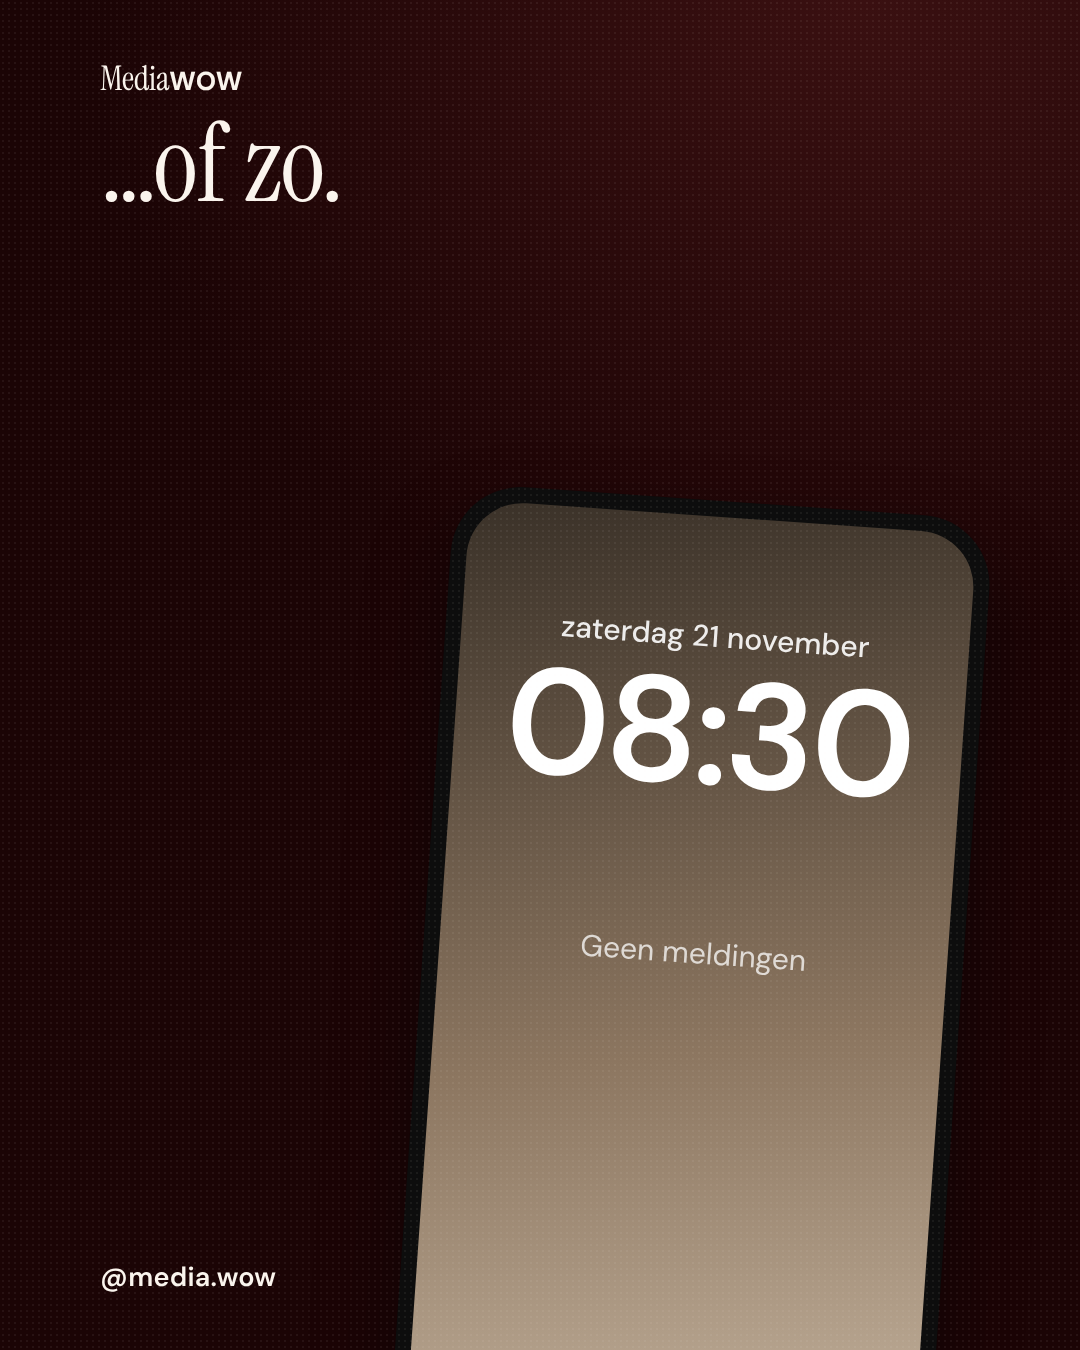
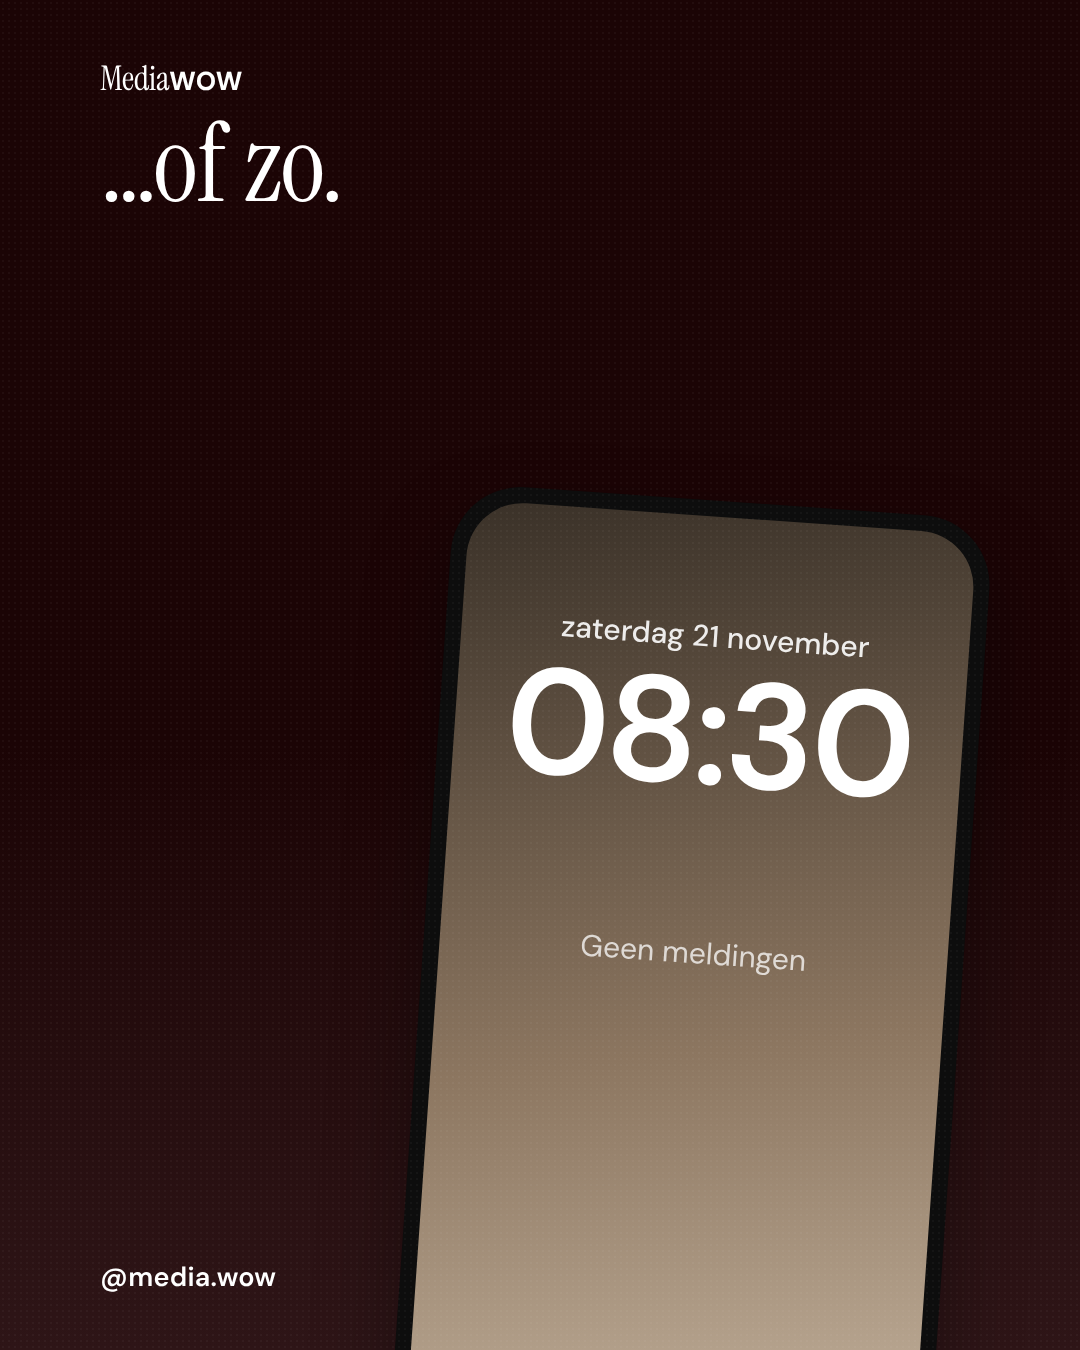
Restyle slides to MediaWow house style: bordeaux, white and cream
Claude-Session: https://claude.ai/code/session_01RBQ5c9Pv2G8CobvSf5vDwJ

Changed region(s): [[0.5806, 0.0, 1.0, 0.1556]]

diff --git a/instagram/build.js b/instagram/build.js
@@ -121,10 +121,45 @@ em{font-style:italic}
 .foot .dots{display:flex;gap:10px}
 .foot .dots i{width:12px;height:12px;border-radius:50%;background:currentColor;opacity:.25}
 .foot .dots i.on{opacity:1;width:34px;border-radius:10px}
+/* ===== MediaWow huisstijl: bordeaux · wit · creme ===== */
+:root{--ink:#1B0405;--bordeaux:#3A1011;--wine:#561C1E;--mauve:#7A5A5A;--cream:#FAF4ED;--sand:#F4EFE8;--white:#FFFFFF}
+.light{background:var(--cream);color:var(--bordeaux)} .sand{background:var(--sand);color:var(--bordeaux)}
+.white-bg{background:var(--white);color:var(--bordeaux);box-shadow:inset 0 0 0 28px var(--white),inset 0 0 0 30px rgba(58,16,17,.25)}
+.dark{background:linear-gradient(180deg,#1B0405 0%,#1B0405 55%,#2E1517 100%);color:#fff}
+.grain:after{opacity:.035}
+.lime{color:#fff} .red{color:#E9B8B0}
+.light h1 em,.sand h1 em,.white-bg h1 em,.light h3 em,.sand h3 em,.white-bg h3 em{color:var(--wine)}
+.lead{color:inherit;opacity:.82;font-weight:400}
+.kicker{font-weight:400;letter-spacing:.38em;opacity:.65}
+.hand{font-family:'Instrument Serif',serif;font-style:italic;font-weight:400}
+.hand.big{font-size:54px;line-height:1.15}
+.light .hand,.sand .hand,.white-bg .hand{color:var(--mauve)}
+.dark .hand{color:rgba(255,255,255,.72)}
+.hl{background:none;padding:0;margin:0;font-style:italic;color:var(--wine);text-decoration:underline;text-decoration-thickness:3px;text-underline-offset:10px}
+p .hl,.step .hl,.lead .hl{font-style:normal;font-weight:600}
+.dark .hl{background:#fff;color:var(--ink);padding:2px 14px;border-radius:0;text-decoration:none;font-style:normal}
+.sticker{background:#fff;color:var(--ink);border-radius:0;width:auto;height:auto;padding:26px 30px;font-weight:500;font-size:24px;letter-spacing:.32em;box-shadow:none;transform:rotate(0)}
+.pill{background:var(--bordeaux);color:#fff;border-radius:0;font-weight:500;font-size:24px;letter-spacing:.38em;transform:none}
+.step{background:#fff;border-radius:4px}
+.step b{background:var(--bordeaux);color:#fff}
+.checks div:before{background:var(--bordeaux);color:#fff;font-size:30px}
+.dark .checks div:before{background:#fff;color:var(--ink)}
+.checks div{border-color:rgba(58,16,17,.15)} .dark-checks div{border-color:rgba(255,255,255,.15)}
+.qa div{border-radius:4px} .qa .a{border-left-color:var(--wine)}
+.words span{background:transparent;color:#fff;border:1.5px solid rgba(255,255,255,.6);border-radius:0;font-weight:500;font-size:34px;letter-spacing:.3em;text-transform:uppercase;padding:22px 30px;transform:none!important}
+.ab-tag,.big-a{background:var(--bordeaux);color:#fff}
+.r-total span:last-child{background:var(--bordeaux);color:#fff}
+.comment-box{border-radius:6px}
+.count span{color:var(--mauve)}
+.flag h3{color:inherit}
+.btn-line{display:inline-block;margin-top:60px;align-self:flex-start;padding:30px 46px;font-size:24px;letter-spacing:.38em;text-transform:uppercase;font-weight:500}
+.white-bg .btn-line,.light .btn-line{background:var(--bordeaux);color:#fff}
+.dark .btn-line{background:#fff;color:var(--ink)}
+.mark{font-size:34px}
 `;
 
 function slideHTML(sl, i, n) {
-  const theme = sl.theme === 'lime' ? 'lime-bg' : sl.theme;
+  const theme = sl.theme === 'lime' ? 'white-bg' : sl.theme;
   const dots = n > 1 ? `<span class="dots">${Array.from({ length: n }, (_, k) => `<i class="${k === i ? 'on' : ''}"></i>`).join('')}</span>` : '<span>MediaWow webdesign</span>';
   const swipe = n > 1 && i === 0 ? '<span>Swipe →</span>' : dots;
   return `<!doctype html><html><head><meta charset="utf-8"><link rel="stylesheet" href="${FONTS}"><style>${CSS}</style></head>

diff --git a/instagram/slides.js b/instagram/slides.js
@@ -88,7 +88,7 @@ Ken je iemand wiens website wel een roast kan gebruiken? Tag ze (met liefde 😇
       { theme: 'dark', html: `
         <div class="kicker">Benieuwd?</div>
         <h1 class="lg">Hoeveel appjes zou jouw website kunnen opvangen?</h1>
-        <p class="lead">Reageer <span class="hl dark-hl">ROAST</span> en ik kijk eerlijk mee.</p>` },
+        <p class="lead">Reageer ROAST en ik kijk eerlijk mee.</p><div class="btn-line">Reageer: Roast</div>` },
     ],
     caption: `“Hoi! Wat kost knippen?”
 “Hebben jullie zaterdag nog plek?”
@@ -186,7 +186,7 @@ Welke red flag mist er nog? 👇
         <p class="hand big" style="margin-top:40px">geen schaamte, gebeurt de beste 😅</p>` },
       { theme: 'lime', html: `
         <h1 class="lg">Van A naar B? Daar ben ik voor.</h1>
-        <p class="lead">Reageer <b>PREVIEW</b> en ik stuur je de link voor een gratis preview van je nieuwe website.</p>` },
+        <p class="lead">Reageer PREVIEW en ik stuur je de link voor een gratis preview van je nieuwe website.</p><div class="btn-line">Reageer: Preview</div>` },
     ],
     caption: `Welke krijgt de reservering: A of B? 🤔
 Zeg het in de comments 👇
@@ -233,7 +233,7 @@ Reageer PREVIEW en ik stuur je de link voor een gratis preview van je nieuwe web
         </div>` },
       { theme: 'lime', html: `
         <h1 class="xl">Bonnetje<br><em>bewaren?</em></h1>
-        <p class="lead">Plan een kennismaking via <b>mediawow.nl</b>. Of reageer <b>PREVIEW</b> voor een gratis preview.</p>` },
+        <p class="lead">Plan een kennismaking via mediawow.nl. Of reageer PREVIEW voor een gratis preview.</p><div class="btn-line">Plan een kennismaking</div>` },
     ],
     caption: `Je ‘goedkope’ website. Even afrekenen. 🧾
 
@@ -280,8 +280,7 @@ Bonnetje bewaren? Plan een kennismaking via mediawow.nl (link in bio) of reageer
         </div>` },
       { theme: 'lime', html: `
         <h1 class="lg">Wil jij meer van die meldingen?</h1>
-        <p class="lead">Reageer <b>PREVIEW</b> en ik stuur je de link voor een gratis preview van je nieuwe website.</p>
-        <p class="hand big" style="margin-top:40px">📲 ping!</p>` },
+        <p class="lead">Reageer PREVIEW en ik stuur je de link voor een gratis preview van je nieuwe website.</p><div class="btn-line">Reageer: Preview</div>` },
     ],
     caption: `Zaterdagochtend. Koffie. Telefoon checken. ☕📲
 
